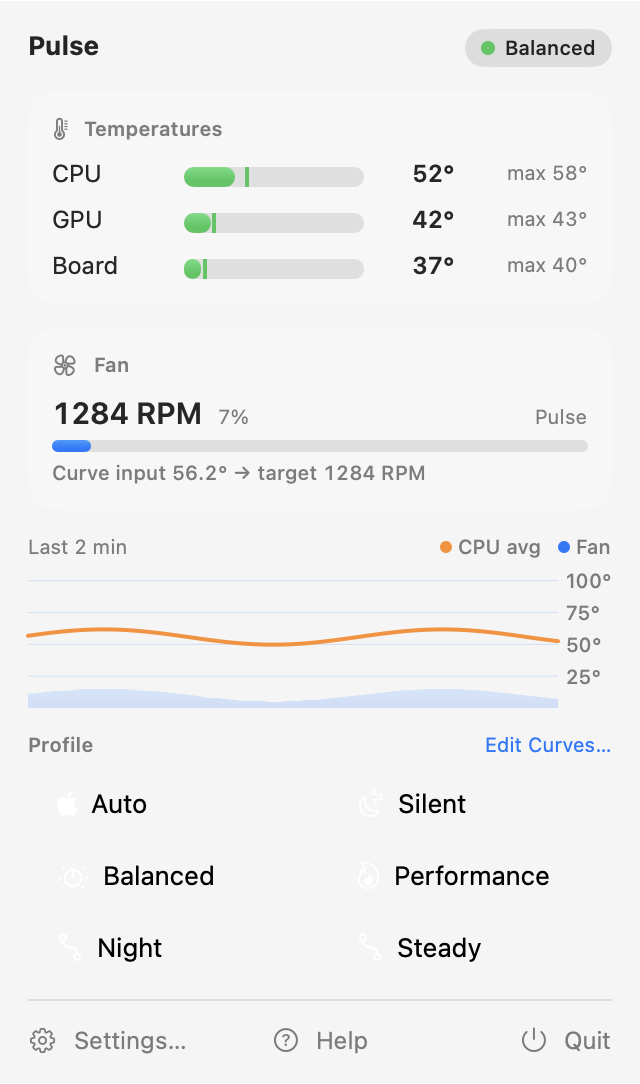
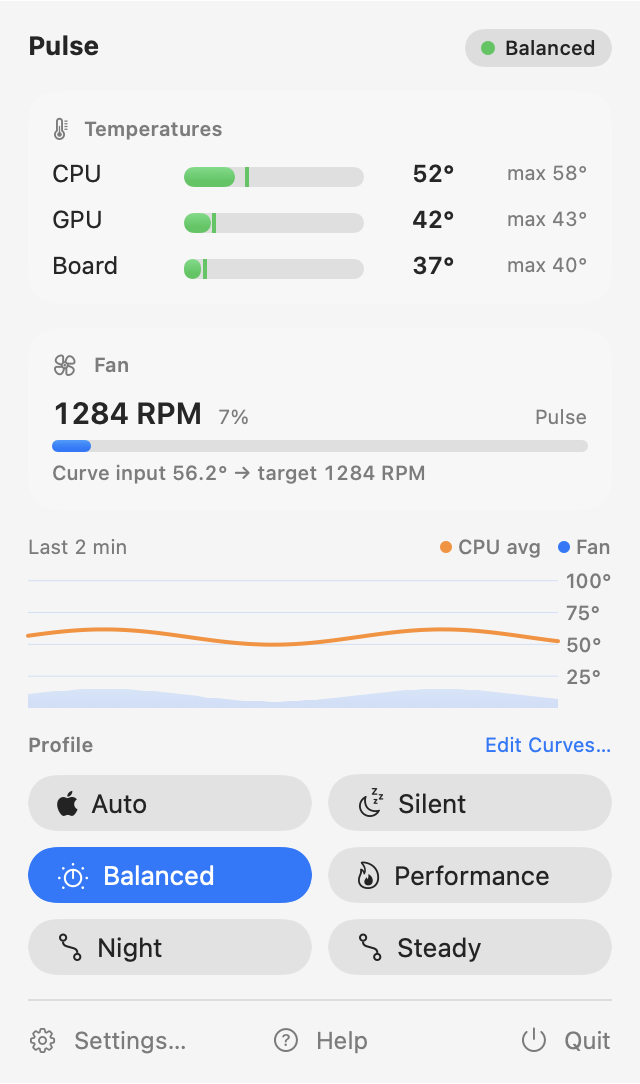
docs(readme): draw the popover screenshot like the app (#5)

diff --git a/App/Sources/PulseUI/Views/PopoverView.swift b/App/Sources/PulseUI/Views/PopoverView.swift
@@ -208,7 +208,7 @@ struct Notice: View {
                 if let actionTitle, let action {
                     HStack(spacing: 6) {
                         Button(actionTitle, action: action)
-                            .buttonStyle(.glass)
+                            .modifier(GlassButtonStyle())
                         if let secondaryTitle, let secondaryAction {
                             Button(secondaryTitle, action: secondaryAction)
                                 .buttonStyle(.borderless)
@@ -488,10 +488,29 @@ private struct ProfileButtonStyle: ViewModifier {
     let selected: Bool
 
     func body(content: Content) -> some View {
-        if selected {
-            content.buttonStyle(.glassProminent)
-        } else {
-            content.buttonStyle(.glass)
+        content.modifier(GlassButtonStyle(prominent: selected))
+    }
+}
+
+extension EnvironmentValues {
+    /// True when the view is drawn off screen (PulseSnapshots): Liquid Glass is
+    /// composited by the window server, so an off-screen render drops the glass
+    /// and draws the buttons' symbols white, even in light mode.
+    @Entry public var rendersWithoutGlass = false
+}
+
+/// `.glass` / `.glassProminent`, or their bordered equivalents when the view is
+/// rendered off screen (see `rendersWithoutGlass`).
+struct GlassButtonStyle: ViewModifier {
+    var prominent = false
+    @Environment(\.rendersWithoutGlass) private var withoutGlass
+
+    func body(content: Content) -> some View {
+        switch (prominent, withoutGlass) {
+        case (true, false): content.buttonStyle(.glassProminent)
+        case (false, false): content.buttonStyle(.glass)
+        case (true, true): content.buttonStyle(.borderedProminent)
+        case (false, true): content.buttonStyle(.bordered)
         }
     }
 }

diff --git a/App/Sources/PulseSnapshots/main.swift b/App/Sources/PulseSnapshots/main.swift
@@ -12,6 +12,9 @@ func render<V: View>(_ view: V, scheme: ColorScheme, to url: URL) async {
     // A real (off-screen) window, so AppKit-backed controls and glass draw as in the app.
     let hosting = NSHostingView(rootView: view
         .environment(\.colorScheme, scheme)
+        .environment(\.rendersWithoutGlass, true)
+        // The render window is never key, which would grey out prominent buttons.
+        .environment(\.controlActiveState, .key)
         .background(scheme == .dark ? Color(white: 0.13) : Color(white: 0.96)))
     hosting.appearance = NSAppearance(named: scheme == .dark ? .darkAqua : .aqua)
     let size = hosting.fittingSize
